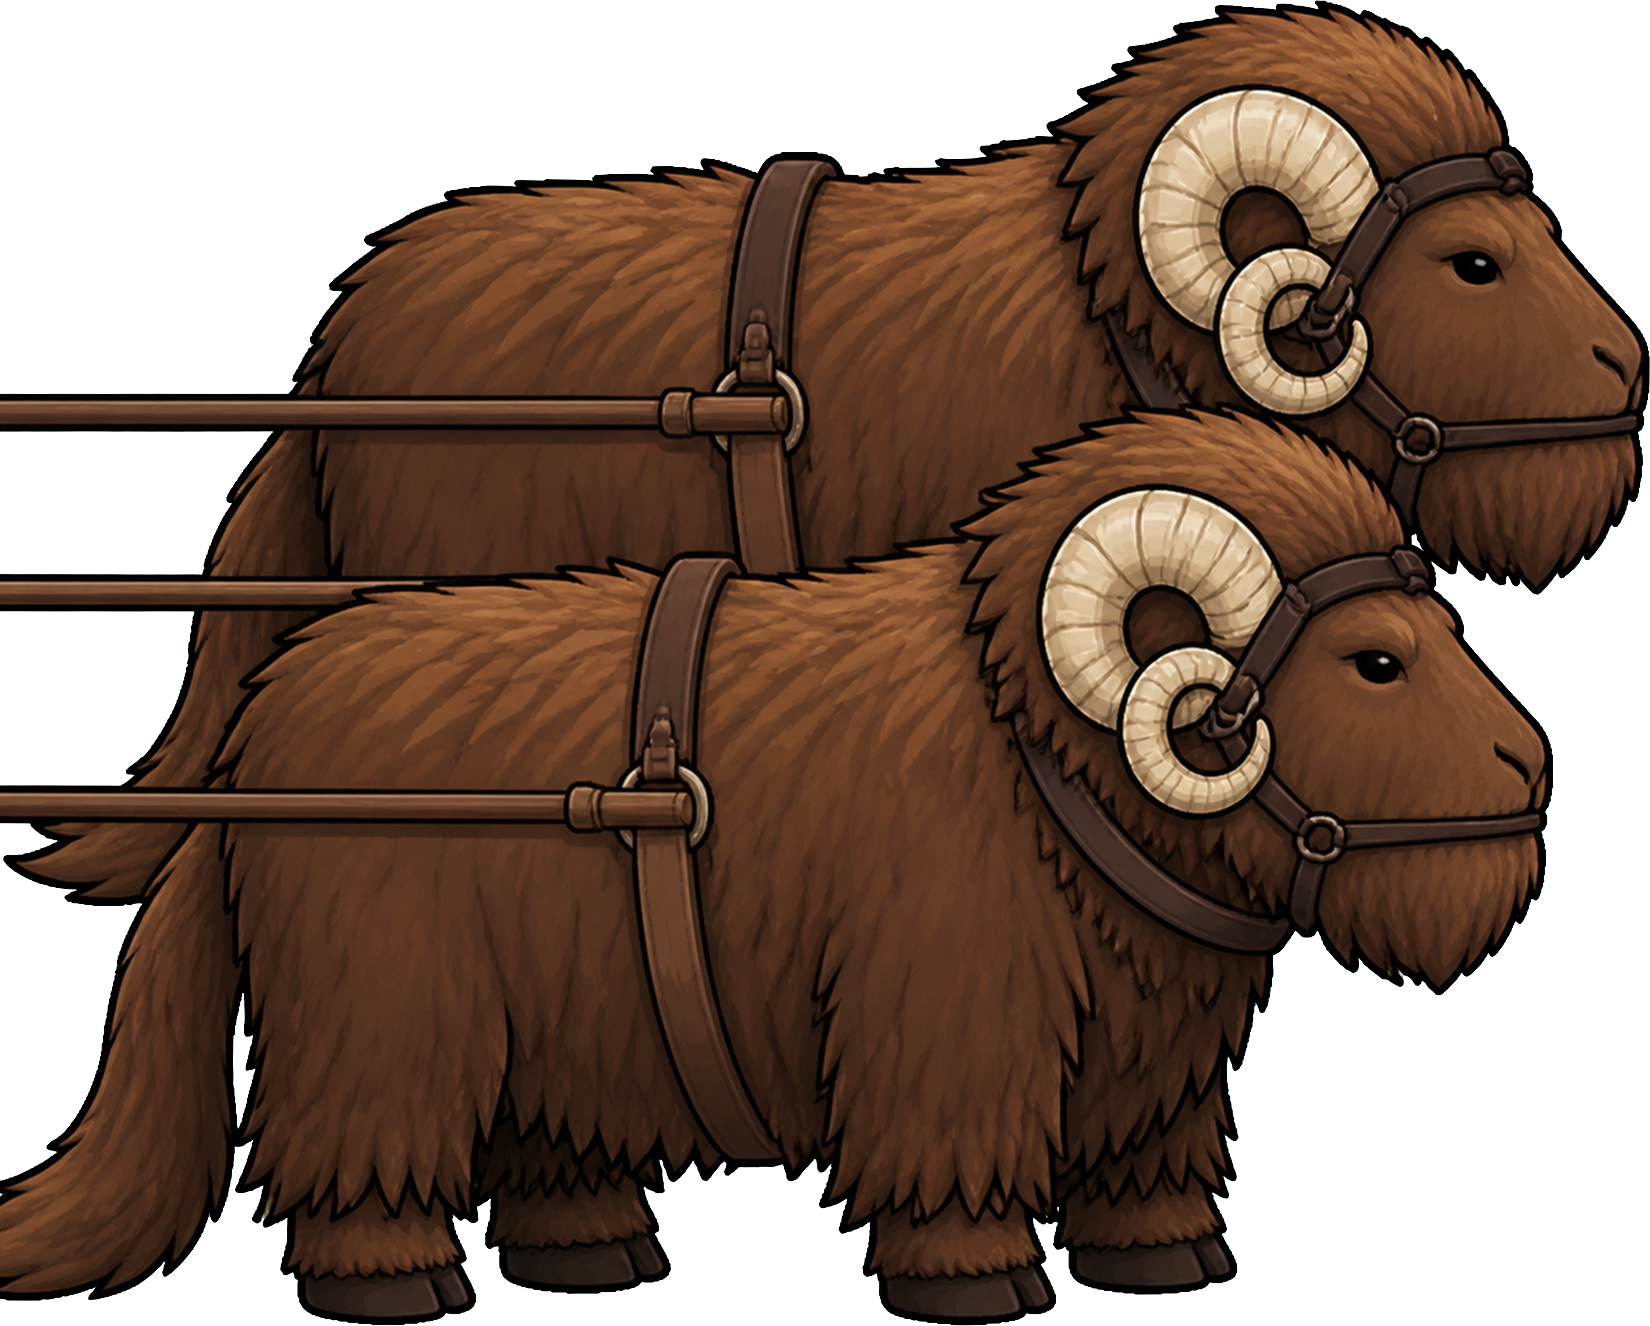
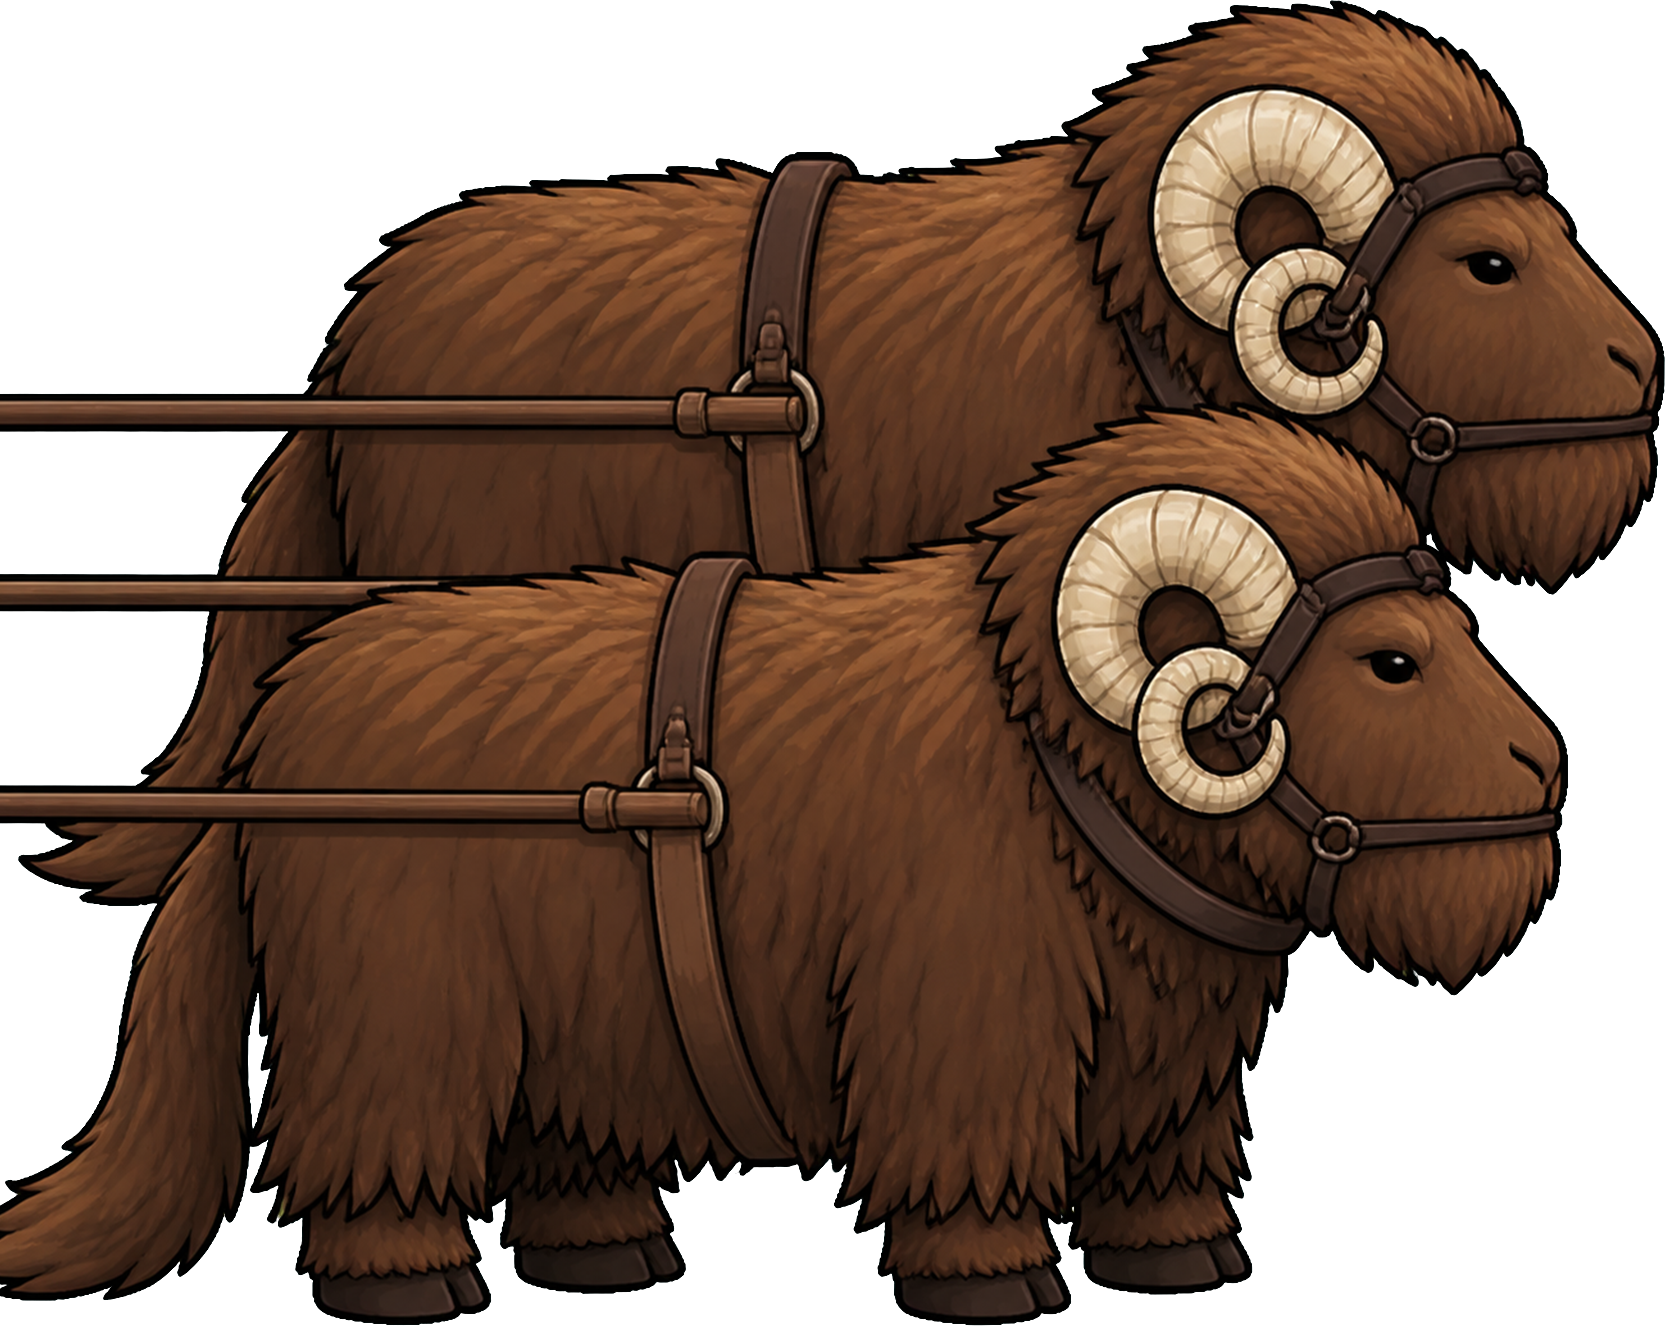
The other half: the east trim was eating the tails, and the cap now stops it
The cut comes off the LEFT, which is exactly where a dewback and a ronto keep
their tails, and --max-cut was uncapped so the band aspect took whatever it wanted.
  WarChariot      352 -> 199 px cut, distortion -10.5%, band 100%x100%
  CoveredCarriage 182 -> 112 px cut, distortion  -5.5%, band 100%x100%
  OxCart          103 ->  88 px cut, distortion  +2.6%, band 104%x100%
All three still PASS validate_sprite.py, and the beasts came out bigger in the
band, not smaller. Chariot is deliberately unchanged: its single dewback is 2.56
aspect against a 1.53 band, so a smaller cut fills only 78% of the band height and
shrinks the animal for a stub nobody sees at sprite size.

diff --git a/src/Jawa/DesertVehicleReskin/Source/EAST_COMMISSION.md b/src/Jawa/DesertVehicleReskin/Source/EAST_COMMISSION.md
@@ -316,9 +316,24 @@ python3 $G/chroma_key.py --input $S/art/raw/dewback_single_east_raw.png --out $S
 # --- 2b. 🔴 TRIM TO THE BAND'S ASPECT. Added 2026-08-21 and NOT optional -- the builder
 #         fits the subject BBOX, so an untrimmed source spends its whole bounded stretch
 #         on one axis and validate_sprite.py passes it anyway. See the header.
-python3 $S/trim_to_band_aspect.py OxCart          east --input $S/art/bantha_pair_gen_east.png  --out $S/art/bantha_pair_east_trimmed.png
-python3 $S/trim_to_band_aspect.py CoveredCarriage east --input $S/art/ronto_pair_gen_east.png   --out $S/art/ronto_pair_east_trimmed.png
-python3 $S/trim_to_band_aspect.py WarChariot      east --input $S/art/dewback_pair_gen_east.png --out $S/art/dewback_pair_east_trimmed.png
+# 🔴 CUTS REDUCED 2026-08-22 under VEHICLE_SPRITE_ARTEFACT_CLEANUP_1. The owner looked
+#    at the shipped east facings and said the tails were "clearly truncated". They were,
+#    and this step is where it happened: an uncapped --max-cut took whatever the band
+#    aspect wanted, off the LEFT, which is exactly where a dewback or a ronto keeps its
+#    tail. The three lines below now carry a cap. Measured cost, and it is a GAIN:
+#      WarChariot      352 -> 199 px cut,  +11.7% residual aspect, distortion -10.5%, band 100%x100%
+#      CoveredCarriage 182 -> 112 px cut,  +5.8%  residual aspect, distortion  -5.5%, band 100%x100%
+#      OxCart          103 ->  88 px cut,  +0.9%  residual aspect, distortion  +2.6%, band 104%x100%
+#    All three still PASS validate_sprite.py against their donor, and the beasts came out
+#    BIGGER in the band, not smaller.
+#    ⛔ CHARIOT IS DELIBERATELY UNCHANGED at 0.30. Its single dewback is 2.56 aspect
+#    against a 1.53 band, so a smaller cut cannot win: 0.20 fills the band 100%x78% and
+#    0.15 fills it 100%x73% - the animal SHRINKS for a tail stub nobody can see at sprite
+#    size. Looked at all three side by side before deciding. That comparison is the
+#    reason, not the numbers.
+python3 $S/trim_to_band_aspect.py OxCart          east --input $S/art/bantha_pair_gen_east.png  --out $S/art/bantha_pair_east_trimmed.png --max-cut 0.05
+python3 $S/trim_to_band_aspect.py CoveredCarriage east --input $S/art/ronto_pair_gen_east_dun.png --out $S/art/ronto_pair_east_dun_trimmed.png --max-cut 0.08
+python3 $S/trim_to_band_aspect.py WarChariot      east --input $S/art/dewback_pair_gen_east.png --out $S/art/dewback_pair_east_trimmed.png --max-cut 0.12
 python3 $S/trim_to_band_aspect.py Chariot         east --input $S/art/dewback_single_east.png   --out $S/art/dewback_single_east_trimmed.png --max-cut 0.30
 
 # --- 3. COMPOSITE. Writes ../Textures/.../AV_<Vehicle>_east.png and its mask.
